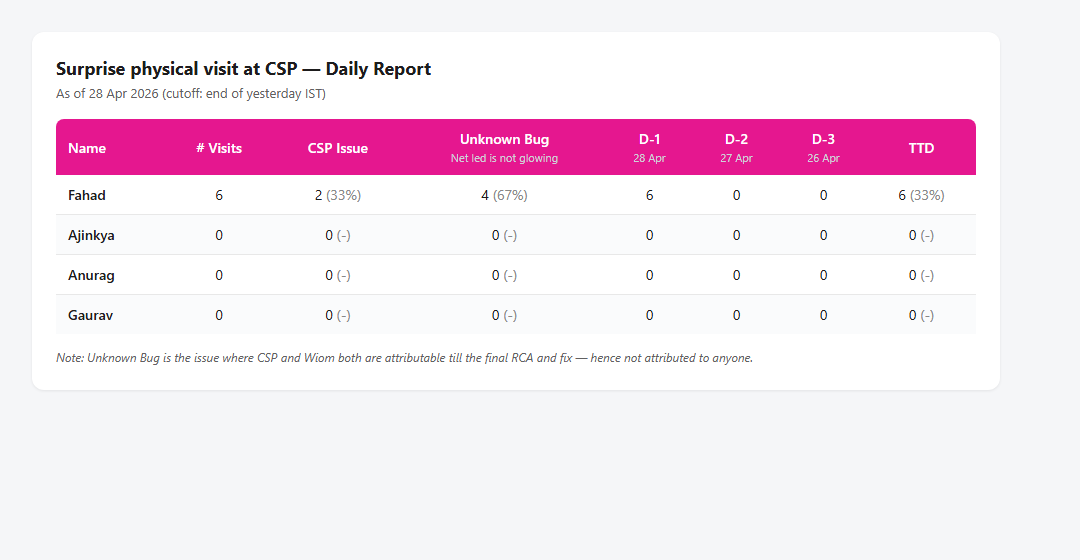
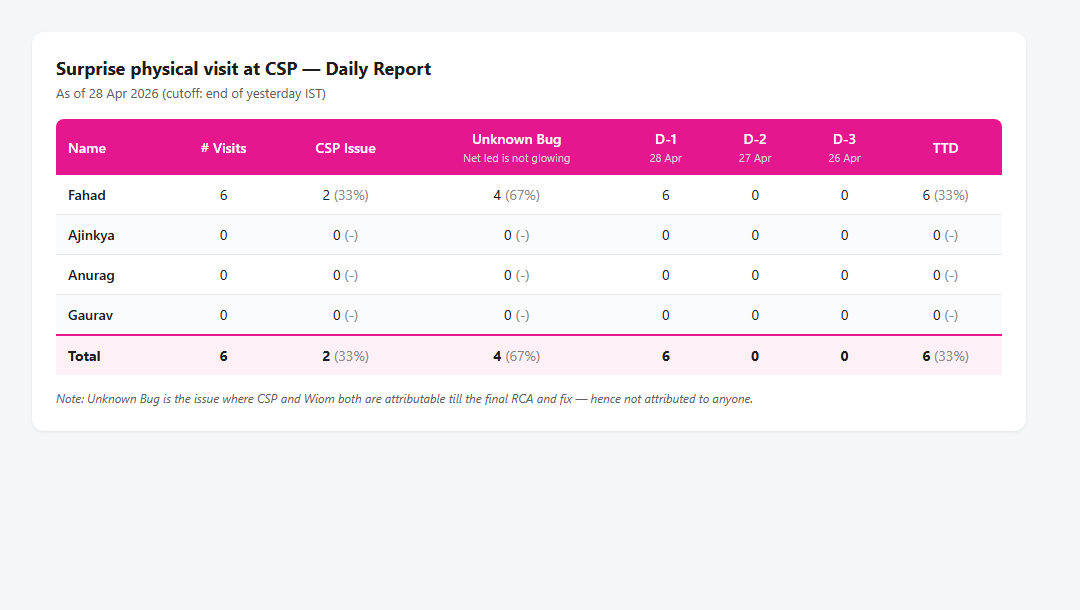
Add Total row + multi-channel support + indented cc layout

diff --git a/report.py b/report.py
@@ -5,10 +5,11 @@ screenshots it via headless Chrome, and posts the PNG + commentary to Slack.
 Runs in GitHub Actions on a daily cron at 04:30 UTC (10:00 AM IST).
 
 Required env vars:
-- SLACK_BOT_TOKEN   xoxb- token with chat:write and files:write scopes
-- SLACK_CHANNEL_ID  Target channel ID (Cxxxxx)
-- HARMEET_USER_ID   (optional) User ID to cc — defaults to U077923R68H
-- WHATSAPPER_USER_ID (optional) User ID to cc — defaults to U040Y7SEUSU
+- SLACK_BOT_TOKEN     xoxb-/xoxp- token with chat:write
+- SLACK_CHANNEL_IDS   Comma-separated target channel IDs (Cxxx,Cxxx)
+- IMAGE_URL           Public URL of the report PNG (used as Slack attachment image)
+- HARMEET_USER_ID     (optional) User ID to cc — defaults to U077923R68H
+- WHATSAPPER_USER_ID  (optional) User ID to cc — defaults to U040Y7SEUSU
 """
 import csv
 import io
@@ -99,11 +100,19 @@ def ttd_cell(t):
 
 def render_html(daily, ttd, yesterday, d2, d3):
     rows_html = []
+    tot_y = {"v": 0, "c": 0, "u": 0}
+    tot_d2 = 0
+    tot_d3 = 0
+    tot_ttd = {"v": 0, "c": 0, "u": 0}
     for name in DISPLAY_ORDER:
         y = daily[name][yesterday]
         d2v = daily[name][d2]["v"]
         d3v = daily[name][d3]["v"]
         t = ttd[name]
+        tot_y["v"] += y["v"]; tot_y["c"] += y["c"]; tot_y["u"] += y["u"]
+        tot_d2 += d2v
+        tot_d3 += d3v
+        tot_ttd["v"] += t["v"]; tot_ttd["c"] += t["c"]; tot_ttd["u"] += t["u"]
         rows_html.append(
             f"<tr>"
             f"<td class='name'>{name}</td>"
@@ -116,6 +125,18 @@ def render_html(daily, ttd, yesterday, d2, d3):
             f"<td>{ttd_cell(t)}</td>"
             f"</tr>"
         )
+    rows_html.append(
+        f"<tr class='total'>"
+        f"<td class='name'>Total</td>"
+        f"<td>{tot_y['v']}</td>"
+        f"<td>{pct(tot_y['v'], tot_y['c'])}</td>"
+        f"<td>{pct(tot_y['v'], tot_y['u'])}</td>"
+        f"<td>{tot_y['v']}</td>"
+        f"<td>{tot_d2}</td>"
+        f"<td>{tot_d3}</td>"
+        f"<td>{ttd_cell(tot_ttd)}</td>"
+        f"</tr>"
+    )
     body_rows = "\n".join(rows_html)
     title_date = yesterday.strftime("%d %b %Y")
     d1_label = yesterday.strftime("%d %b")
@@ -135,6 +156,7 @@ def render_html(daily, ttd, yesterday, d2, d3):
   td.name {{ text-align:left; font-weight:600; }}
   tr:last-child td {{ border-bottom:none; }}
   tr:nth-child(even) td {{ background:#fafbfc; }}
+  tr.total td {{ background:#fdf0f7 !important; font-weight:700; border-top:2px solid #E5178F; }}
   .muted {{ color:#888; font-weight:400; }}
   .day {{ font-size:11px; color:#cfd2d8; font-weight:400; display:block; margin-top:2px; }}
   .note {{ margin-top:14px; font-size:12px; color:#616061; font-style:italic; line-height:1.5; }}
@@ -194,7 +216,7 @@ def screenshot(html_path, png_path):
         "--no-sandbox",
         "--hide-scrollbars",
         "--default-background-color=00000000",
-        "--window-size=1080,560",
+        "--window-size=1080,610",
         f"--screenshot={png_path}",
         f"file://{html_path}" if os.sep == "/" else f"file:///{html_path.replace(os.sep, '/')}",
     ]
@@ -228,26 +250,84 @@ def slack_api_json(method, token, payload):
         return json.loads(resp.read())
 
 
-def post_message(token, channel_id, text):
-    r = slack_api_json(
-        "chat.postMessage",
-        token,
-        {"channel": channel_id, "text": text, "unfurl_links": True, "unfurl_media": True},
-    )
+def post_message(token, channel_id, text, image_url=None):
+    payload = {
+        "channel": channel_id,
+        "text": text,
+        "unfurl_links": False,
+        "unfurl_media": False,
+    }
+    if image_url:
+        payload["attachments"] = [
+            {
+                "fallback": "Daily PNM Visit Report",
+                "image_url": image_url,
+                "color": "#E5178F",
+                "footer": (
+                    "Note: Unknown Bug is the issue where CSP and Wiom both are "
+                    "attributable till the final RCA and fix - hence not attributed to anyone."
+                ),
+            }
+        ]
+    r = slack_api_json("chat.postMessage", token, payload)
     if not r.get("ok"):
-        raise RuntimeError(f"chat.postMessage failed: {r}")
+        raise RuntimeError(f"chat.postMessage to {channel_id} failed: {r}")
+    return r
+
+
+def post_with_blocks(token, channel_id, image_url, harmeet, whats):
+    cc_indent = " " * 80
+    payload = {
+        "channel": channel_id,
+        "text": "Daily PNM Visit Report",
+        "blocks": [
+            {
+                "type": "section",
+                "text": {
+                    "type": "mrkdwn",
+                    "text": '<!channel>- Please find the report of "Surprise physical visit at CSP" as of yesterday.',
+                },
+            },
+            {
+                "type": "context",
+                "elements": [
+                    {"type": "mrkdwn", "text": f"{cc_indent}cc <@{harmeet}> <@{whats}>"}
+                ],
+            },
+        ],
+        "attachments": [
+            {
+                "fallback": "Daily PNM Visit Report",
+                "image_url": image_url,
+                "color": "#E5178F",
+                "footer": (
+                    "Note: Unknown Bug is the issue where CSP and Wiom both are "
+                    "attributable till the final RCA and fix - hence not attributed to anyone."
+                ),
+            }
+        ],
+        "unfurl_links": False,
+        "unfurl_media": False,
+    }
+    r = slack_api_json("chat.postMessage", token, payload)
+    if not r.get("ok"):
+        raise RuntimeError(f"chat.postMessage to {channel_id} failed: {r}")
     return r
 
 
 def main():
     token = os.environ.get("SLACK_BOT_TOKEN")
-    channel = os.environ.get("SLACK_CHANNEL_ID")
-    if not token or not channel:
-        print("ERROR: SLACK_BOT_TOKEN and SLACK_CHANNEL_ID env vars required", file=sys.stderr)
+    channels_raw = os.environ.get("SLACK_CHANNEL_IDS") or os.environ.get("SLACK_CHANNEL_ID", "")
+    channels = [c.strip() for c in channels_raw.split(",") if c.strip()]
+    if not token or not channels:
+        print("ERROR: SLACK_BOT_TOKEN and SLACK_CHANNEL_IDS env vars required", file=sys.stderr)
         sys.exit(1)
     harmeet = os.environ.get("HARMEET_USER_ID", "U077923R68H")
     whats = os.environ.get("WHATSAPPER_USER_ID", "U040Y7SEUSU")
     image_url = os.environ.get("IMAGE_URL", "")
+    if not image_url:
+        print("ERROR: IMAGE_URL env var required (URL of the report PNG)", file=sys.stderr)
+        sys.exit(1)
 
     now_ist = datetime.now(timezone.utc) + timedelta(hours=5, minutes=30)
     today = now_ist.date()
@@ -257,19 +337,9 @@ def main():
         f.write(html)
     screenshot(HTML_PATH, PNG_PATH)
 
-    text_parts = [
-        '<!channel>- Please find the report of "Surprise physical visit at CSP" as of yesterday.',
-        f"cc <@{harmeet}> <@{whats}>",
-    ]
-    if image_url:
-        text_parts.append("")
-        text_parts.append(image_url)
-    text_parts.append("")
-    text_parts.append(
-        "_Note: Unknown Bug is the issue where CSP and Wiom both are attributable till the final RCA and fix — hence not attributed to anyone._"
-    )
-    post_message(token, channel, "\n".join(text_parts))
-    print(f"Posted report to channel {channel}")
+    for ch in channels:
+        post_with_blocks(token, ch, image_url, harmeet, whats)
+        print(f"Posted to {ch}")
 
 
 if __name__ == "__main__":
